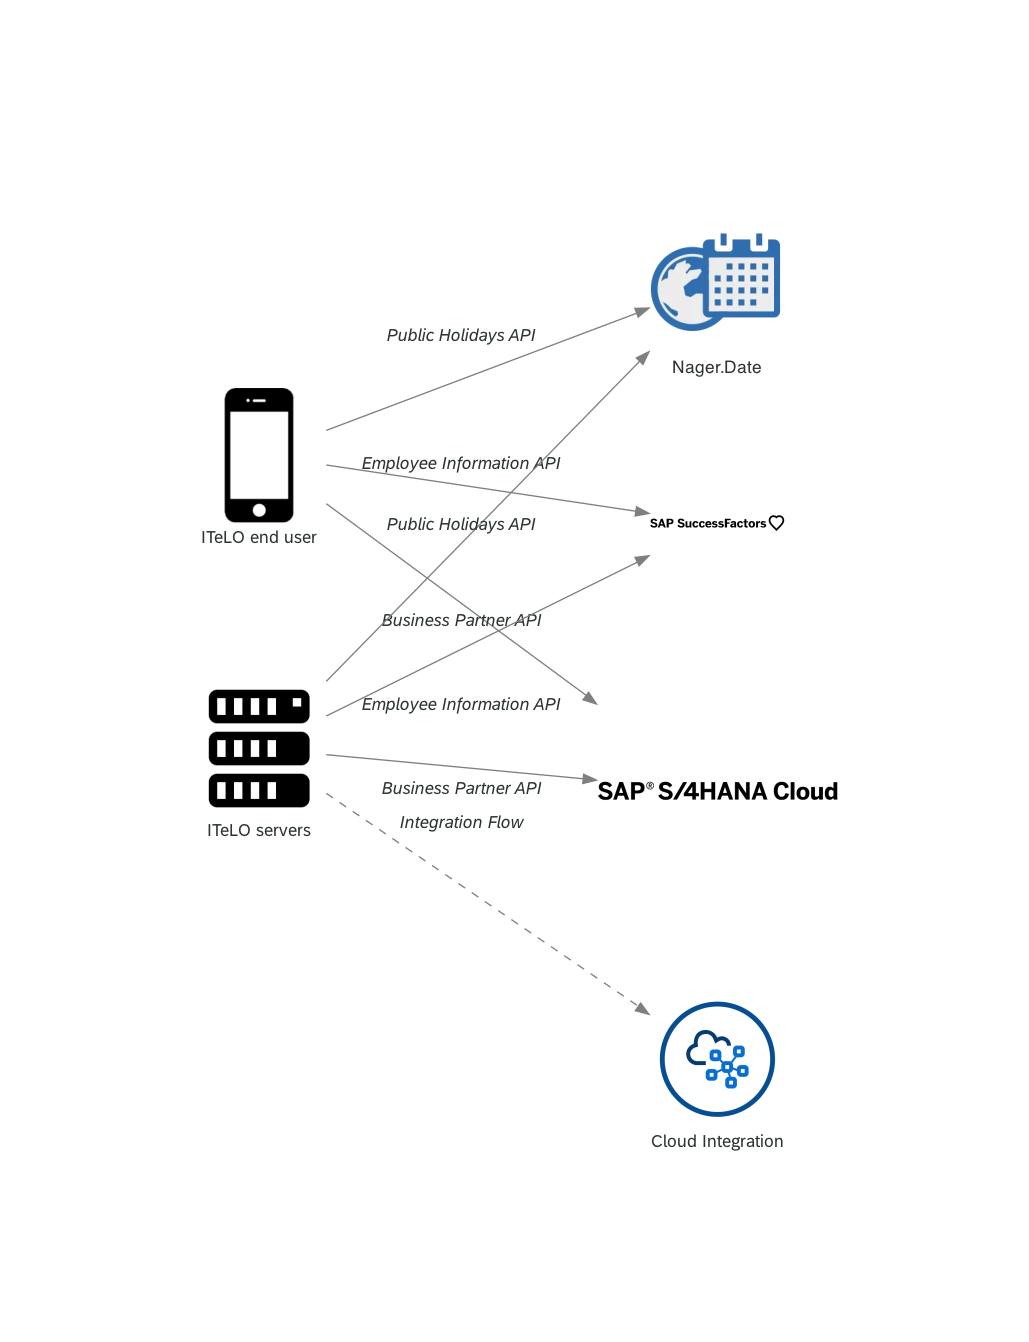
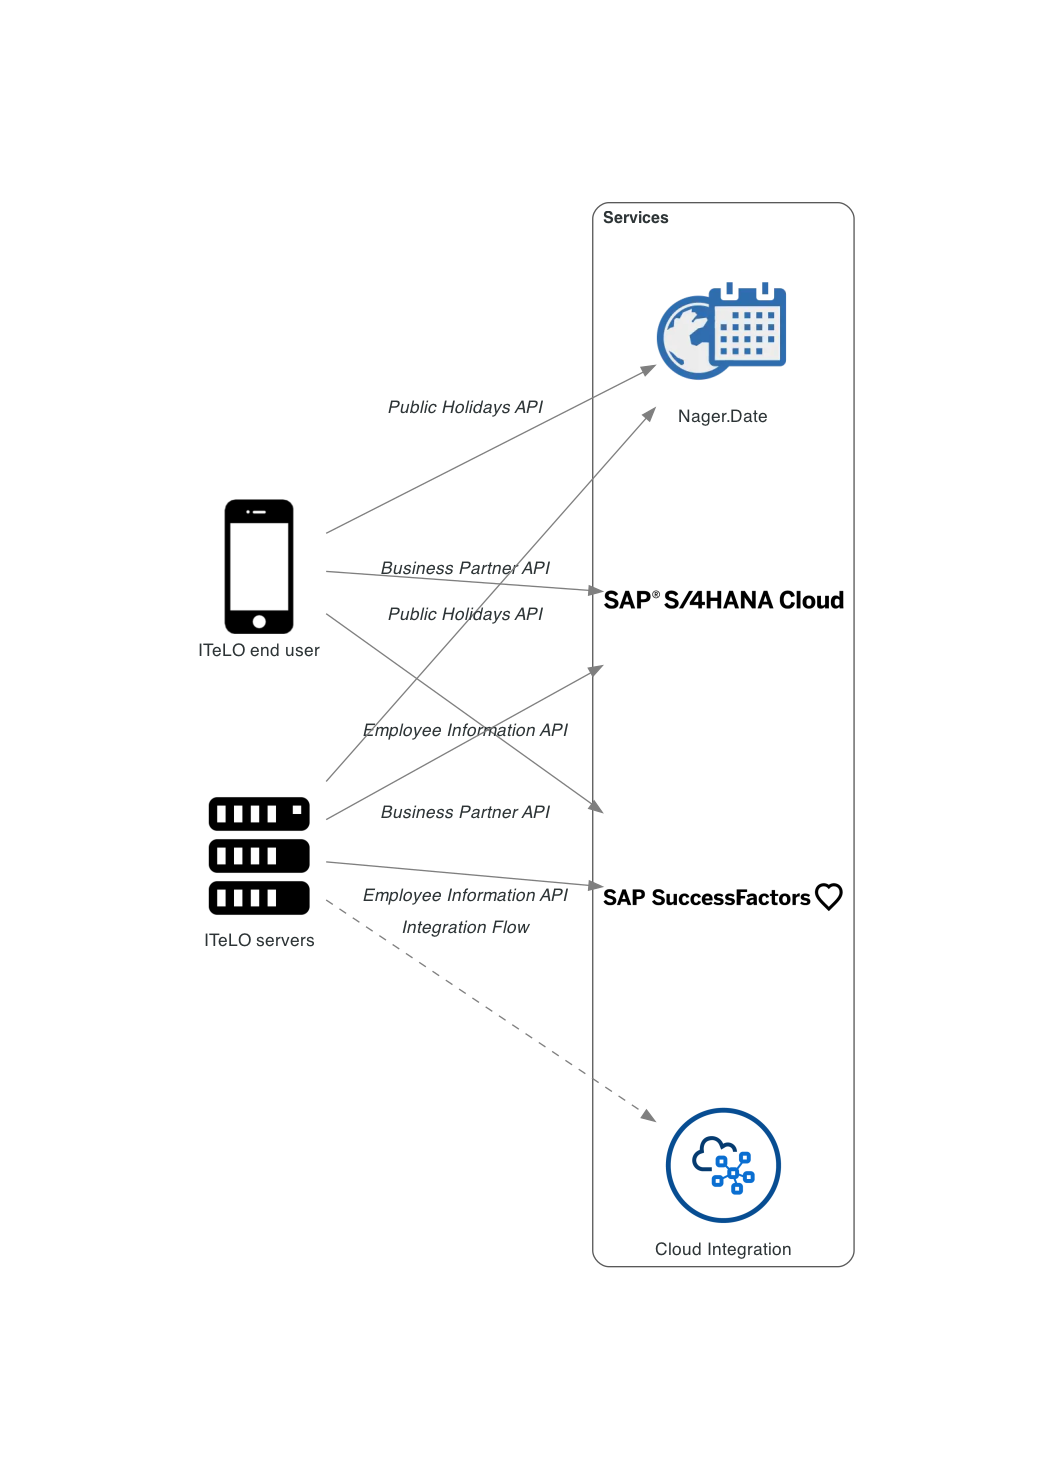
Generating diagrams and including them in exercises

diff --git a/assets/diagrams/exercise-diagrams.py b/assets/diagrams/exercise-diagrams.py
@@ -1,0 +1,87 @@
+import argparse
+
+from diagrams import Cluster, Diagram, Edge
+from diagrams.custom import Custom
+from diagrams.generic.device import Mobile
+from diagrams.onprem.compute import Server
+from diagrams.sap.integration import ProcessIntegration_Circle, APIManagement_Circle
+from diagrams.sap.erp import SAPS4HANACloud
+from diagrams.sap.saas import SAPSuccessfactorsBlack
+
+# SAP BTP Solution Diagrams and Icons guidelines colors
+L0_BLUE_COLOUR = "#316CCA"
+L1_BLUE_COLOUR = "#074D92"
+L2_GREEN_COLOUR = "#0F828F"
+FIX_GREY_COLOUR = "#7F7F7F"
+NON_SAP_AREA_COLOUR = "#595959"
+
+GLOBALACCOUNT_GRAPH_ATTR = {"bgcolor": "white",
+                            "pencolor": L0_BLUE_COLOUR, "penwidth":"3.0", "fontname": "72 Bold"}
+SUBACCOUNT_GRAPH_ATTR = {"bgcolor": "white",
+                         "pencolor": L1_BLUE_COLOUR, "penwidth":"2.5", "fontname": "72 Bold Italic"}
+PRIMARY_EMPHASIZE_AREA_GRAPH_ATTR = {
+    "bgcolor": "white", "pencolor": L2_GREEN_COLOUR, "penwidth":"2.0", "style": "dashed", "fontname": "72 Italic", "rankdir": "TB"}
+
+SERVICES_GRAPH_ATTR = {"bgcolor": "white",
+                            "pencolor": NON_SAP_AREA_COLOUR, "penwidth":"1.0", "fontname": "72 Bold"}
+
+NODE_LABEL = {"fontname": "72 Regular"}
+EDGE_LABEL = {"color": FIX_GREY_COLOUR, "fontname": "72 Italic"}
+
+OPTIONAL_EDGE_LABEL = {"style": "dashed", "color": FIX_GREY_COLOUR, "fontname": "72 Italic"}
+
+if __name__ == "__main__":
+    parser = argparse.ArgumentParser()
+    parser.add_argument("--exercises", "-e", help="Specify diagrams for exercise that you want to generate", default="*")
+    args = parser.parse_args()
+
+    total_exercises = 14
+    
+    generate_exercise = [i for i in range(3, total_exercises + 1)]
+
+    if args.exercises != "*":
+        generate_exercise = [int(x) for x in args.exercises.split(",")]
+
+    for i in generate_exercise:
+        with Diagram("", show=False, filename=f"exercise-{i}", graph_attr={"splines": "false"}):
+            mobile = Mobile("ITeLO end user", **NODE_LABEL)
+            server = Server("ITeLO servers", **NODE_LABEL)
+            rest_client = Custom("REST Client", "../postman-logo.png")
+            
+            with Cluster("Services", graph_attr=SERVICES_GRAPH_ATTR):
+                nager_date = Custom("Nager.Date", "../nager-date.png")
+                sap_server = SAPS4HANACloud(**{"height": "2.5", "width": "2.5"})
+                ssff = SAPSuccessfactorsBlack(**{"height": "2.5", "width": "2.5"})
+
+            with Cluster("SAP Business Technology Platform - Participant account", graph_attr=GLOBALACCOUNT_GRAPH_ATTR):
+                with Cluster("Your Subaccount", graph_attr=SUBACCOUNT_GRAPH_ATTR):
+                    with Cluster("SAP Integration Suite", graph_attr=PRIMARY_EMPHASIZE_AREA_GRAPH_ATTR):
+                        cloud_integration = ProcessIntegration_Circle("Cloud Integration", **NODE_LABEL)
+
+                        api_management = APIManagement_Circle("API Management", **NODE_LABEL)
+                        
+                        if  i >= 12:
+                            api_key_policy_s4hc = Custom("", "../verifyAPIKey.png", height=0.8)
+
+                            spike_arrest_policy = Custom("", "../spike-arrest.png", height=0.8)
+                            api_management - api_key_policy_s4hc - spike_arrest_policy >> Edge(label="Business Partner API", **EDGE_LABEL) >> sap_server
+                        elif i < 12:
+                            api_management >> Edge(label="Business Partner API", **EDGE_LABEL) >> sap_server
+
+                        if i >= 8:
+                            api_management >> Edge(label="Employee Central API", **EDGE_LABEL) >> ssff
+
+                        if i >= 10:
+                            api_key_policy_nager = Custom("", "../verifyAPIKey.png", height=0.8)
+                            api_management - api_key_policy_nager >> Edge(label="Public Holidays API", **EDGE_LABEL) >> nager_date
+                        elif i >= 7:
+                            api_management >> Edge(label="Public Holidays API", **EDGE_LABEL) >> nager_date
+
+                        if i >= 14:
+                            api_management >> Edge(label="Integration Flow", **OPTIONAL_EDGE_LABEL) >> cloud_integration
+
+                        mobile >> Edge(label="Send request", **OPTIONAL_EDGE_LABEL) >> api_management
+
+                        server >> Edge(label="Send request", **OPTIONAL_EDGE_LABEL) >> api_management
+
+                        rest_client >> Edge(label="Send request", **OPTIONAL_EDGE_LABEL) >> api_management

diff --git a/assets/diagrams/without-apim.py b/assets/diagrams/without-apim.py
@@ -20,6 +20,8 @@ SUBACCOUNT_GRAPH_ATTR = {"bgcolor": "white",
                          "pencolor": L1_BLUE_COLOUR, "penwidth":"2.5", "fontname": "72 Bold Italic"}
 PRIMARY_EMPHASIZE_AREA_GRAPH_ATTR = {
     "bgcolor": "white", "pencolor": L2_GREEN_COLOUR, "penwidth":"2.0", "style": "dashed", "fontname": "72 Italic", "rankdir": "TB"}
+SERVICES_GRAPH_ATTR = {"bgcolor": "white",
+                            "pencolor": NON_SAP_AREA_COLOUR, "penwidth":"1.0", "fontname": "72 Bold"}
 
 NODE_LABEL = {"fontname": "72 Regular"}
 EDGE_LABEL = {"color": FIX_GREY_COLOUR, "fontname": "72 Italic"}
@@ -29,12 +31,12 @@ OPTIONAL_EDGE_LABEL = {"style": "dashed", "color": FIX_GREY_COLOUR, "fontname": 
 with Diagram("", show=False, filename="without-apim-data-flow", graph_attr={"splines": "false"}):
     mobile = Mobile("ITeLO end user", **NODE_LABEL)
     server = Server("ITeLO servers", **NODE_LABEL)
-    nager_date = Custom("Nager.Date", "../nager-date.png")
-    sap_server = SAPS4HANACloud(**{"height": "2.5", "width": "2.5"})
-    ssff = SAPSuccessfactorsBlack()
-    
-    
-    cloud_integration = ProcessIntegration_Circle("Cloud Integration", **NODE_LABEL)
+
+    with Cluster("Services", graph_attr=SERVICES_GRAPH_ATTR):
+        nager_date = Custom("Nager.Date", "../nager-date.png")
+        sap_server = SAPS4HANACloud(**{"height": "2.5", "width": "2.5"})
+        ssff = SAPSuccessfactorsBlack(**{"height": "2.5", "width": "2.5"})
+        cloud_integration = ProcessIntegration_Circle("Cloud Integration", **NODE_LABEL)
 
     mobile >> Edge(label="Business Partner API", **EDGE_LABEL) >> sap_server
     server >> Edge(label="Business Partner API", **EDGE_LABEL) >> sap_server

diff --git a/exercises/07-import-api-openapi-spec/README.md b/exercises/07-import-api-openapi-spec/README.md
@@ -4,6 +4,11 @@ So far, we've seen how we can discover, copy, deploy and publish APIs available 
 
 At the end of this exercise, you'll have successfully used an OpenAPI specification to create an API and its resources in SAP API Management.
 
+<p align = "center">
+    <img alt="To be - Nager.Date API added" src="../../assets/diagrams/exercise-7.png" width="85%"/><br/>
+    <i>To be - Nager.Date API added</i>
+</p>
+
 ## Public Holidays around the world
 
 As mentioned in the [API Management scenario](../../README.md#api-management-scenario), ITeLO has a global workforce, with many offices around the world. Every country has different public holidays and it is important to know which dates are public holidays in each location, for planning/HR purposes. Currently, different teams maintain this information in different ways, e.g. spreadsheets/consuming different API and the data is not consistent across the organisation. Our goal is to provide a single point of reference (API) that all the different applications in the organisation can use/refer to know the public holidays of the different locations. This will help to harmonise this important data across the organisation.

diff --git a/exercises/optional-01-expose-integration-flow-api-management/README.md b/exercises/optional-01-expose-integration-flow-api-management/README.md
@@ -4,6 +4,11 @@ In this exercise, we will expose our integration flow via API Management and tak
 
 To achieve the above we create an API in API Management that will act as a proxy to our integration flow and we will leverage an OpenAPI specification to create it. Remember that we learnt about OpenAPI specifications in [exercise 01](../01-open-api-specification/README.md) of this CodeJam.
 
+<p align = "center">
+    <img alt="To be - Including SAP Cloud Integration Integration Flow" src="../../assets/diagrams/exercise-14.png" width="85%"/><br/>
+    <i>To be - Including SAP Cloud Integration Integration Flow</i>
+</p>
+
 ## Create API by importing OpenAPI specification
 
 An OpenAPI specification for an integration flow is included in the assets of this CodeJam - [integration-flow-openapi-spec-1.0.0.json](../../assets/cloud-integration/integration-flow-openapi-spec-1.0.0.json). The spec describes the endpoint that's being exposed in SAP Cloud Integration and the data structure of the request and response expected from our endpoint.

diff --git a/exercises/README.md b/exercises/README.md
@@ -2,6 +2,13 @@
 
 During the CodeJam, you will complete each exercise one at a time. At the end of each exercise, questions are included to help you think about the content just covered and are to be discussed with the entire CodeJam class, led by the instructor, when everyone has finished that exercise.
 
+> By the end of the CodeJam, we will achieve an API Management scenario like the one below in the diagram.
+
+>  <p align = "center">
+>      <img alt="Managing our APIs with SAP API Management" src="../assets/diagrams/exercise-14.png" width="80%"/><br/>
+>      <i>To be - Managing our APIs with SAP API Management</i>
+>  </p>
+
 If you finish an exercise early, please resist the temptation to continue with the next one. Instead, explore what you've just done and see if you can learn more about the subject covered. That way, we all stay on track together and can benefit from some reflection via the questions (and answers).
 
 See below for an overview of the exercises part of this CodeJam.

diff --git a/exercises/08-add-ssff-employee-central-api/README.md b/exercises/08-add-ssff-employee-central-api/README.md
@@ -4,6 +4,11 @@ Now that we are familiar with the basic functions of creating, saving, deploying
 
 At the end of this exercise, you'll have successfully published a new product and you'll be familiar with the sandbox environment part of the SAP Business Accelerator Hub.
 
+<p align = "center">
+    <img alt="To be - SAP SuccessFactors Employee Information API" src="../../assets/diagrams/exercise-8.png" width="85%"/><br/>
+    <i>To be - SAP SuccessFactors Employee Information API</i>
+</p>
+
 ## Personal Information API
 
 The Personal Information API part of SAP SuccessFactors Employee Central provides us access to the personal information of an employee. For example, we can retrieve emergency contact information, social media accounts, email address and non-effective-dated biographical information. Let's get familiar with the resources exposed in the Personal Information API.

diff --git a/exercises/12-protecting-apis/README.md b/exercises/12-protecting-apis/README.md
@@ -4,6 +4,11 @@ Our main business system (SAP S/4HANA Cloud) requires basic authentication to be
 
 Let's explore what we can do to mitigate this.
 
+<p align = "center">
+    <img alt="To be - SAP S/4HANA Business Partner API with policies" src="../../assets/diagrams/exercise-12.png" width="85%"/><br/>
+    <i>To be - SAP S/4HANA Business Partner API with policies</i>
+</p>
+
 ## Identify the developer/application calling our API
 
 At the moment we are unable to identify the developer that's calling the API proxy that we created for our SAP S/4HANA Cloud Business Partner API. Before we can set a policy that can control the number of calls made by an application/developer, we will first need to apply the same policy that we applied in exercise 10, the [Verify API Key](https://help.sap.com/docs/sap-api-management/sap-api-management/verify-api-key) policy. 

diff --git a/exercises/03-discover-and-import-api/README.md b/exercises/03-discover-and-import-api/README.md
@@ -2,6 +2,11 @@
 
 At the end of this exercise, you'll have successfully searched for an API listed in the SAP Business Accelerator Hub, via the Discover functionality in SAP API Management, and imported the API to your instance.
 
+<p align = "center">
+    <img alt="To be - SAP S/4HANA Cloud Business Partner API" src="../../assets/diagrams/exercise-3.png" width="85%"/><br/>
+    <i>To be - SAP S/4HANA Cloud Business Partner API</i>
+</p>
+
 ## Discover APIs
 
  In the Discover > APIs section of SAP Integration Suite, you'll be able to find [all the API packages that you can access via the SAP Business Accelerator Hub](https://api.sap.com/content-type/API/apis/packages). This includes API packages for SAP products, as well as API packages made available by SAP partners.

diff --git a/exercises/10-api-policies/README.md b/exercises/10-api-policies/README.md
@@ -4,6 +4,11 @@ So far, we've created and published APIs in SAP API Management but haven't added
 
 At the end of this exercise, you'll be familiar with some basic API policies and how to apply them to your APIs.
 
+<p align = "center">
+    <img alt="To be - Nager.Date API with policy" src="../../assets/diagrams/exercise-10.png" width="85%"/><br/>
+    <i>To be - Nager.Date API with policy</i>
+</p>
+
 ## Policies
 
 The additional functionality can be set in SAP API Management in the form of [Policies](https://help.sap.com/docs/SAP_CLOUD_PLATFORM_API_MANAGEMENT/66d066d903c2473f81ec33acfe2ccdb4/7e4f3e590f164996994cddc8e48bf7f5.html?locale=en-US). A policy is a program that executes a specific function at runtime, allowing us to add the extra functionality to our API. 

diff --git a/README.md b/README.md
@@ -28,7 +28,7 @@ Our task is to make accessible and organise the APIs from/consumed by the differ
 By the end of the CodeJam, we will achieve an API Management scenario like the one below in the diagram.
 
 <p align = "center">
-    <img alt="Managing our APIs with SAP API Management" src="assets/diagrams/final-data-flow.png" width="80%"/><br/>
+    <img alt="Managing our APIs with SAP API Management" src="assets/diagrams/exercise-14.png" width="80%"/><br/>
     <i>To be - Managing our APIs with SAP API Management</i>
 </p>
 

diff --git a/assets/diagrams/README.md b/assets/diagrams/README.md
@@ -31,5 +31,6 @@ $ mkvirtualenv sap-diagrams
 $ poetry install --no-dev
 
 # Now you can run one of scripts above locally. This will generate a png file with the output.
-$ python final-diagram.py
+$ python without-apim-data-flow.py
+$ python exercise-diagrams.py -e 3,7,8,10,11,12,13
 ```
